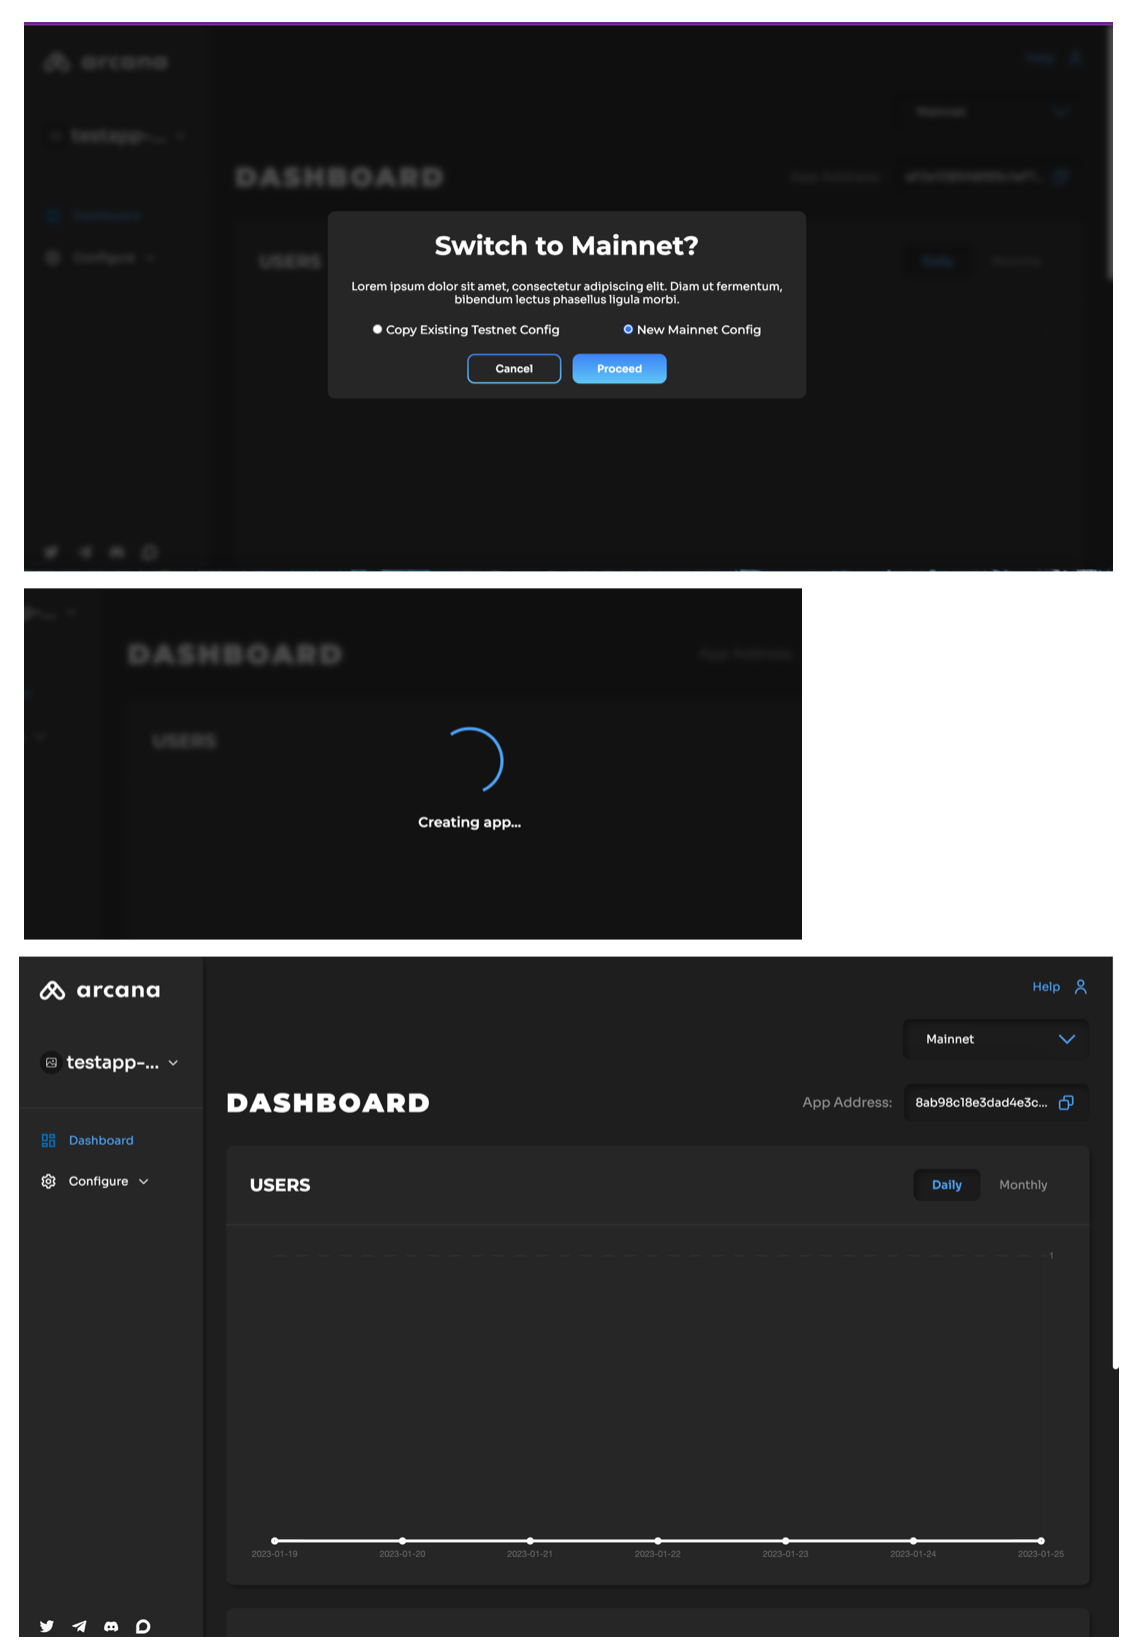
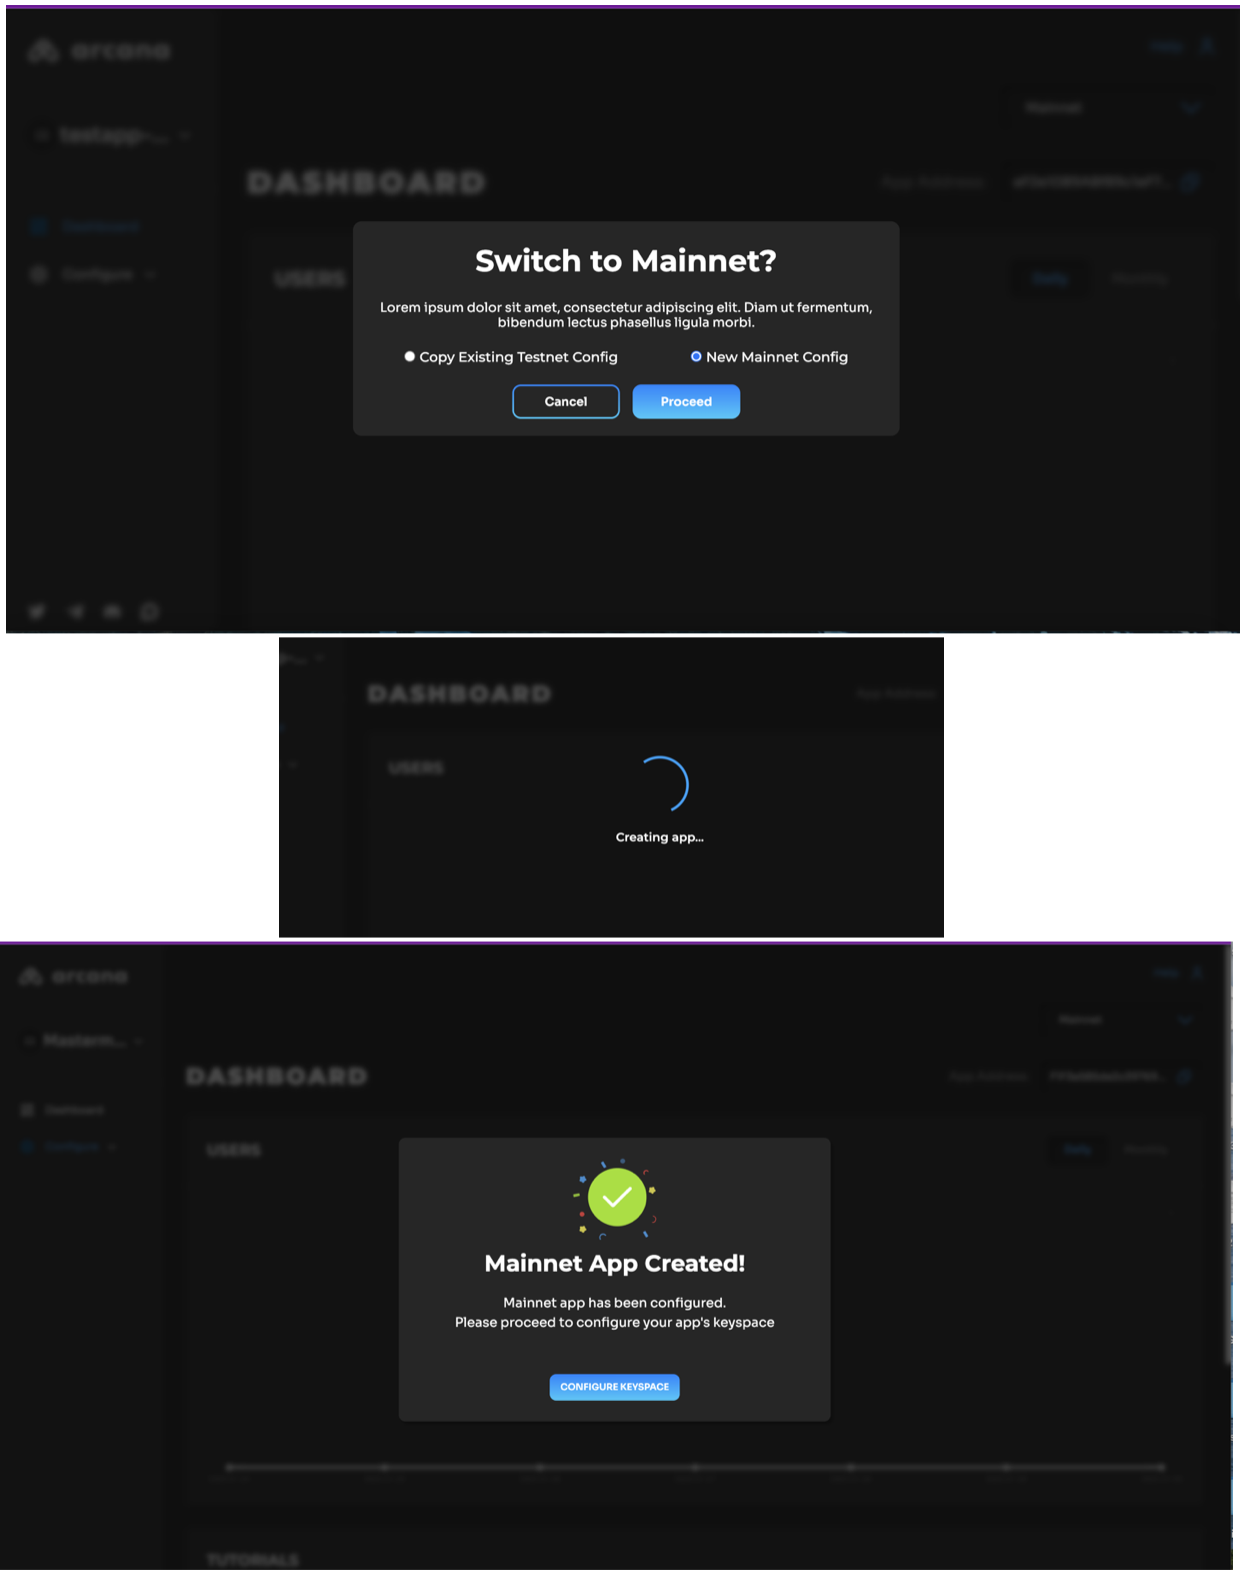
Fix: #AR-5478 shared keyspace, app-specific, global keys concept, howto guide, user guide updated.

diff --git a/docs/concepts/sharedkeys.md b/docs/concepts/sharedkeys.md
@@ -7,22 +7,24 @@ arcana:
   root_rel_path: ..
 ---
 
-# Shared Key Space
+# App-Specific vs. Global Keys
 
-Arcana Auth associates cryptographic key pair with every authenticated user. Keys are associated with the user's wallet address and are the gateway to Web3 applications and signing blockchain transactions, accessing wallet assets and more. You can equate keys to 'passwords' in the Web2 applications but they are more secure. User's self-sovereign identity is realized through these secure keys that are not stored anywhere in the Arcana ecosystem. Multiple key shares are available in the decentralized key generation subsystem nodes and no single node has access to user's keys.
+Arcana Network allows Web3 application developers to have the flexibility of choosing the desired levels of data security and ease of use as per the application requirements.
 
-In the case of Web2 applications users typically use the same password across different applications.  If you translate this behavior in Web3 applications, developers may want to allow the application users to use the same wallet address across different applications that use the Arcana Auth protocol. Similar to the Web2 application behavior of allowing same password across diverse applications, this option of allowing authenticated users to have the same wallet address across Web3 applications may result in simpler user experience but at the risk of reduced security. Any malicious actor that is able to get into one of the applications could potentially do so for all the other applications that are relying on the same user password or wallet address. 
+In the case of Web2 applications it is common to use the same password across different applications.  If you translate this user behavior in Web3 applications, developers may want to allow the application users to use the same wallet address across different applications that use the Arcana Network. Similar to the Web2 application behavior of allowing same password across diverse applications, the option of allowing Web3 authenticated users to have the same user keys or the same wallet address across Web3 applications may result in simpler user experience but at the risk of reduced security. Any malicious actor that is able to hack into one of the applications could potentially do so for all the other applications that are relying on the same user password or wallet address. 
 
-This ability to have the same wallet address for authenticated users across applications in the Arcana ecosystem requires enabling of secured **Shared Key Space**. The shared key space feature is a special feature targeted at providing a Web2-like user experience in Web3 but it is not enabled by default for security reasons.
+Arcana Auth associates cryptographic key pair with every authenticated user. Keys are associated with the user's wallet address. User's keys are the gateway to accessing Web3 applications, signing blockchain transactions, and managing wallet assets. You can equate keys to 'passwords' in the Web2 applications but they are more secure. User's self-sovereign identity is realized through these secure keys that are not stored anywhere in the Arcana ecosystem. To construct a key, multiple key shares are required. These shares are split across multiple DKG participating nodes and no single node has access to user's keys.
 
-By default, Arcana uses the highest level of security whereby user's application keys or the wallet address is **not** shared across different applications that integrate with the Arcana Auth. As a result, the same user will be assigned a different wallet address when logging into a different application in the Arcana ecosystem. 
+By default, every application is configured to use the highly secure **App-specific Keys** whereby user's application keys or the wallet address is unique across different applications that integrate with the Auth SDK and are part of the Arcana Network ecosystem. As a result, an authenticated user will be assigned a unique set of keys and a different wallet address for every application.
 
-To change this default behavior and ensure that application user has the **same wallet address** experience irrespective of which application they log into in the Arcana ecosystem, the application developer must verify themselves and get whitelisted to use the Arcana shared key space.  Using shared key space does not result in any keys sharing with any third party or application developers or users. It simply ensures that an authenticated user will always be assigned the same wallet address across all Arcana applications and in a secure manner.
+To facilitate same wallet address for an authenticated user across different applications in the Arcana ecosystem, developers must select the **Global Keys** option. Global keys enable a Web2-like user experience in Web3 applications but it requires developers to be whitelisted via a manual verification process for security reasons.
 
-At present, the developer verification and whitelisting process for enabling shared key space is manual but we plan to automate it in the future. At the time of application registration, developer has to fill an online form and submit it in order to utilize the shared key space feature for the application users. Developers need to monitor the application status for approval. 
+## Enabling Global Keys
 
-At Arcana, the safety and privacy Web3 application users is our top priority. That's why we have implemented strict verification processes for developers before they can access the **Shared Key Space** feature in their applications. This ensures that users are protected from malicious activities. To take advantage of this feature, please visit the Arcana Dashboard and enable Shared Key Space while registering your app.
+To enable the user experience of having the same wallet address across different applications, developers must use the Arcana Developer Dashboard and select the **Global Keys** option. To whitelist an application, developer must get themselves verified from Arcana by filling an online form. It may take a couple of hours to get the feature enabled after verification. Refer to the verification status in the dashboard and once it is approved, the **Global Keys** are enabled for the application. 
 
 !!! caution
 
-      Developers can create app entry to register their application and choose to opt for the 'Shared Keys' feature. It may take some time for manual verification.  Meanwhile, if developers continue to integrate their application with the Auth SDK while waiting for the shared keys feature, and allow application users to log in, the users will be assigned wallet addresses. These wallet address may change later once the request for using shared keys feature is granted.
+      This feature is **only** available for applications deployed on Arcana Mainnet.
+      
+      Developers can register their application and choose to opt for the 'Global Keys' feature. It may take some time for manual verification.  Meanwhile, if developers continue to integrate their application with the Auth SDK while waiting for the global keys approval, and allow application users to log in, the users will be assigned unique wallet addresses. These wallet address may change later once the request for using shared keys feature is granted.

diff --git a/docs/db/config_dApp_with_db.md b/docs/db/config_dApp_with_db.md
@@ -75,7 +75,35 @@ When 'Mainnet' is selected from the dropdown, if there already exists a 'Mainnet
 
 ![Switch to Mainnet Profile](/img/an_db_new_mainnet_config_creation.png)
 
-After the selection is made and the developer confirms, the 'Mainnet' profile is created and automatically registered with the Arcana Network. A new unique **App Address** is assigned to the application and must be utilized to integrate the application with the Auth SDK. 
+After the selection is made and the developer confirms, the 'Mainnet' profile is created and automatically registered with the Arcana Network. 'Mainnet' configuration requires an additional setting which is not there for 'Testnet' configuration profile. This additional setting is **keyspace** and it is used to allow Web3 application users to share the same wallet address across multiple applications that are deployed on the Arcana 'Mainnet'. Refer to the next section for more details.
+
+!!! note "Mainnet App Address"
+
+      The newly creat4ed 'Mainnet' configuration profile is associated with a brand new unique **App Address**. Developers must specify this new app address while integrating the application with the Auth SDK and deploy it on Arcana 'Mainnet'.
+
+#### Configure Mainnet Keyspace 
+
+To deploy an application on the Arcana Mainnet, developers need to create a 'Mainnet' profile and configure the keyspace option. You can choose to copy the 'Testnet' profile as 'Mainnet' configuration or create a new one. In both cases, you need to specify an additional keyspace option. Keyspace is only available for **Mainnet**.  There are two keyspace options: [App-specific and Global Keys]({{page.meta.arcana.root_rel_path}}/concepts/sharedkeys.md).
+
+You can either use the default, highly secure **App-specific** keyspace option or **Global** keyspace depending upon the desired level of security and user experience required for the application. 
+
+![Mainnet Keyspace options](/img/an_db_keyspace_options.png)
+
+Use global keyspace if you want to allow the Web3 users experience where same wallet address is assigned to the user across different Arcana application logins. It is less secure than the default **App-specific** keyspace option whereby a user will see different wallet address across different application.
+
+Select **Global Keyspace** and click **Verify**. This will bring up a verification form. Fill out the verification form, click **Submit**. 
+
+<img alt="Global Keyspace Verify" src="/img/an_db_global_keysp_verify.png" width="40%" />
+
+You can check the status of **Global Keyspace** verification by using the **Keyspace** screen. After submitting the form, you will see the status as **In Review**.
+
+![Mainnet Global keyspace in review](/img/an_db_global_keysp_inreview.png)
+
+The status will change to **Approved** once verification is complete. You can integrate your application with the Auth SDK but do not deploy it until the verification is complete. Otherwise users that log in before verification is complete may see different wallet addresses after the process is complete.
+
+![Mainnet Global keyspace approved](/img/an_db_global_keysp_approved.png)
+
+Now your application is configured to use the Arcana Mainnet. You can further edit configuration settings for Mainnet by using the LHS navigation pane and selecting **Configure**.  
 
 ![Mainnet Profile entry](/img/an_db_mainnet_profile.png)
 
@@ -85,11 +113,11 @@ There are multiple ways to switch an application from using Testnet to Mainnet.
 
 * To switch to 'Mainnet', use the application dashboard screen, select **Configuration >> Social Auth** in the LHS navigation pane. Refer to the dropdown next to 'Testnet' on the top RHS of the screen and choose 'Mainnet'. If there is a preexisting 'Mainnet profile, the app is automatically switched to it and you can see the social authentication settings and assigned **App Address** for the 'Mainnet' profile. Otherwise, the profile wizard gets activated and assists the developer in creating a 'Mainnet' configuration profile for the application. Once the profile is created, a new **App Address** is automatically assigned and the configuration switches to 'Mainnet'.
 
-![Select Testnet or Mainnet](/img/an_db_testnet_mainnet_select.png)  
+    ![Select Testnet or Mainnet](/img/an_db_testnet_mainnet_select.png)  
 
 * Alternatively, if a 'Mainnet' configuration profile is already created for an application, you can also switch between Testnet/Mainnet configuration profiles by using the 'Manage Apps' dashboard screen. Simply select the application card and click on 'Testnet' or 'Mainnet'. This will bring up the application dashboard screen displaying the application dashboard for the selected configuration profile. 
 
-![Switch to Testnet](/img/an_db_all_app_card.png)
+    ![Switch to Testnet](/img/an_db_all_app_card.png)
 
 !!! caution
 

diff --git a/includes/text-snippets/db_settings.md b/includes/text-snippets/db_settings.md
@@ -42,6 +42,18 @@ Use defaults or provide inputs for the required settings as per your application
 
     * **Wallet:** Website Domain - Set our website domain here. It is used for security reasons by the server, to restrict Arcana wallet from loading anywhere else other than the domain you specify. Arcana uses frame-ancestor CSP for restricted domains.<br></br><img alt="Social OAuth" src="/img/an_db_configure_wallet.png" width="85%"></img>
 
-!!! important
+=== "Shared Keyspace"
+
+    Use the shared keyspace section to use default **App-specific** or **Global Keys** feature. Global keys allows an application user to have the same wallet address across different applications in the Arcana Network ecosystem. Learn more about [App-specific and global keys]({{page.meta.arcana.root_rel_path}}/concepts/sharedkeys.md) and use the [Arcana Developer Dashboard User Guide]({{page.meta.arcana.root_rel_path}}/db/config_dApp_with_db.md#configure-mainnet-keyspace) to configure shared keyspace.
+
+    **Keyspace**
+
+    * **App-Specific**:  Highly secure but an authenticated user will be assigned unique, different wallet address for every apps in the Arcana Network ecosystem.
+
+    * **Global Keys**: Less secure but better user experience as an authenticated user will be assigned a unique address that remains the same whether user logs into any application in the Arcana Network ecosystem.
+
+    ![Mainnet Keyspace options](/img/an_db_keyspace_options.png)
+
+!!! note
 
       Make sure you save the configuration settings before leaving the dashboard page in your browser.
